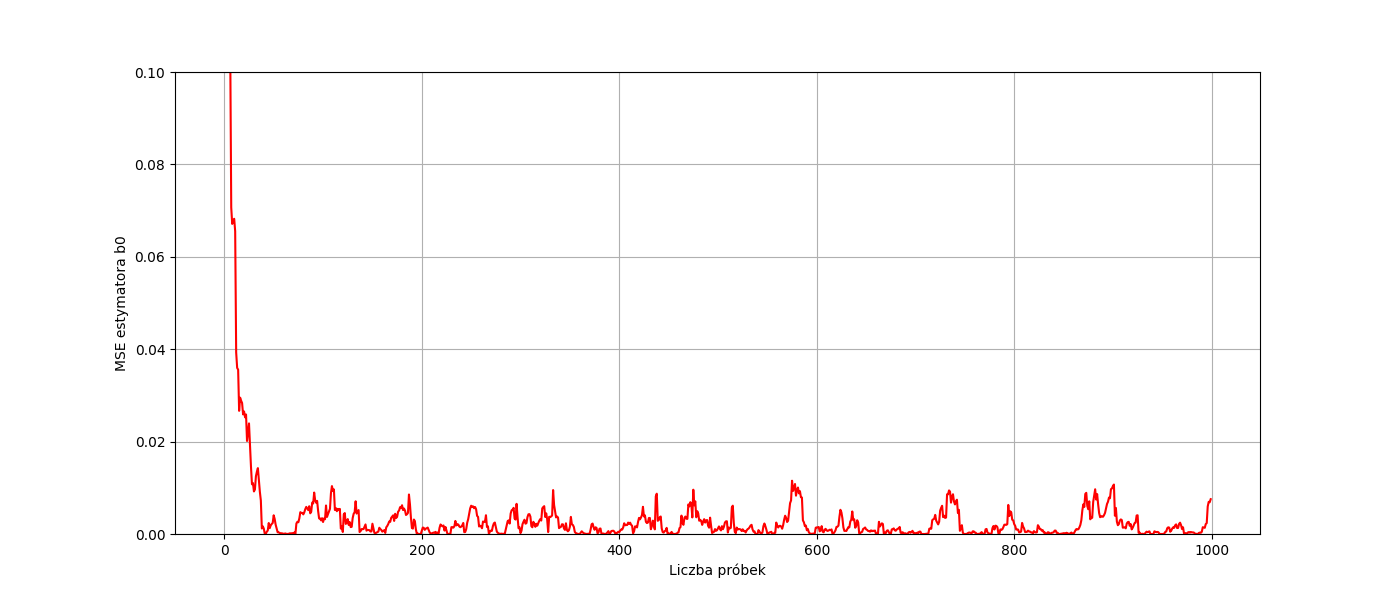
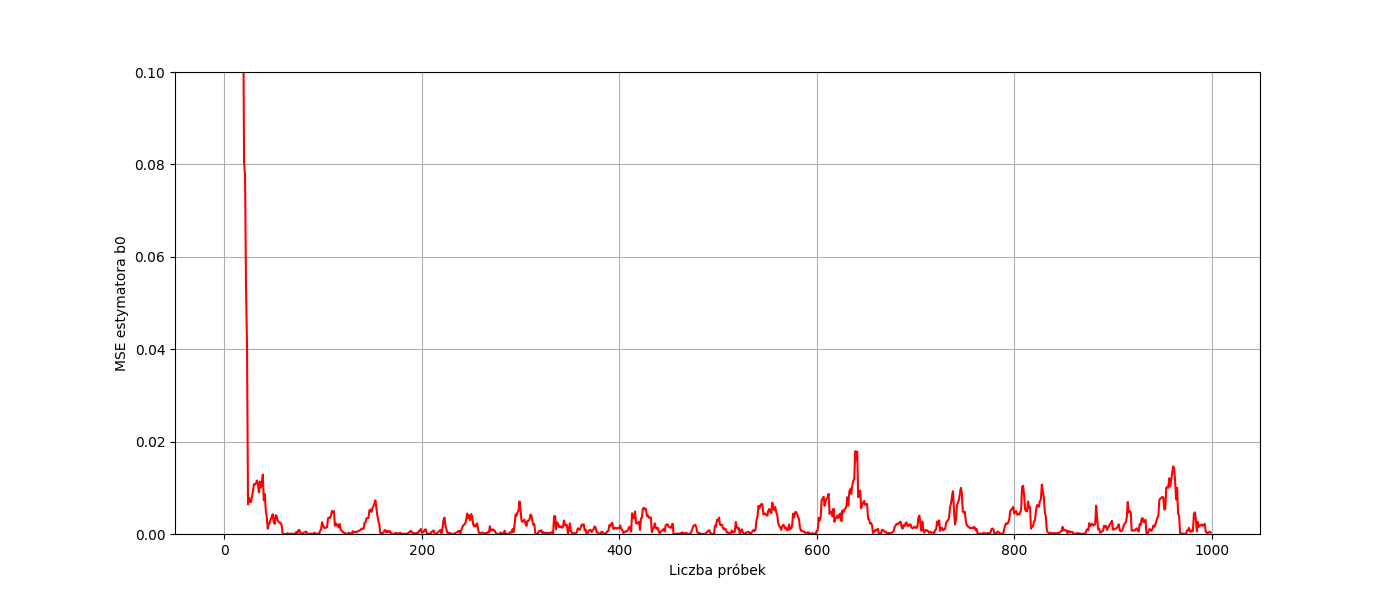
drobne poprawki

Changed region(s): [[0.1536, 0.12, 0.86, 0.9]]

diff --git a/adaptacyjne/projekt2/zad2.py b/adaptacyjne/projekt2/zad2.py
@@ -2,11 +2,164 @@ import matplotlib.pyplot as plt
 import numpy as np
 import random
 import os
-from matplotlib import cm
 
-C = 0.5 
-images_folder = "images_part_2"
+C = 0.2
+images_folder1 = "images_part_1"
+images_folder2 = "images_part_2"
 img_mse = "images_mse"
+image_folder3 = "zadanie_dodatkowe"
+
+
+def zad_dodatkowe_na_sterowanie(N, b_true, v_wanted, Lambda=1):
+    P_k = np.array([[100, 0, 0],
+                [0, 100, 0],
+                [0, 0, 100]])
+    b_estimated = np.zeros((3,N))
+    V_estimated = np.zeros(N)
+    y_estimated = np.zeros(N)
+    V_true = np.zeros(N) # prawdziwe wyjście z obiektu bez zakłócenia
+    y_true = np.zeros(N) # prawdziwe wyjście z zakłóceniem
+    noise1 = [C *(random.random() + random.random() - 1) for _ in range(N)]
+    noise2 = [C *(random.random() + random.random() - 1) for _ in range(N)]
+
+    # odtąd będzie rozpierducha=========================================================
+        # Tworzenie danych przed pętlą 
+    # Dla [0]
+    u_k = np.zeros(N)
+    u_k[0] = (v_wanted[0])
+    Phi = np.array([[u_k[0]],
+                    [0],
+                    [0]])
+    V_true[0] = b_true[0,0]*u_k[0]
+    y_true[0] = V_true[0] + noise1[0]
+    P_k = 1/Lambda * (P_k - (np.dot(np.dot(np.dot(P_k,Phi),Phi.T),P_k))/ (Lambda + np.dot(np.dot(Phi.T, P_k),Phi)))
+
+    B_estimated = [ [0],
+                    [0],
+                    [0]]
+    b_estimated[:,0] = (B_estimated + (y_true[0] - np.dot(Phi.T, B_estimated)) * np.dot(P_k,Phi)).reshape((3,)) 
+    # Dla [1]
+    u_k[1] = (v_wanted[1])/b_estimated[0, 0]
+    Phi = np.array([[u_k[1]],
+                    [u_k[0]],
+                    [0]])
+    V_true[1] = b_true[0,0]*u_k[1] + b_true[1,0]*u_k[0] 
+    y_true[1] =  V_true[1] + noise1[1]
+    P_k = 1/Lambda * (P_k - (np.dot(np.dot(np.dot(P_k,Phi),Phi.T),P_k))/ (Lambda + np.dot(np.dot(Phi.T, P_k),Phi)))
+   
+    B_estimated = [[b_estimated[0, 0]],
+                    [b_estimated[1, 0]],
+                    [b_estimated[2, 0]]]
+    b_estimated[:,1] = (B_estimated + (y_true[1] - np.dot(Phi.T, B_estimated)) * np.dot(P_k,Phi)).reshape((3,)) 
+    for k in range(2, N):
+        u_k[k] = (v_wanted[k] -  (b_estimated[1, k-1]* u_k[k-1] + b_estimated[2, k-1]*u_k[k-2]))/b_estimated[0, k-1]
+        Phi = np.array([[u_k[k]],
+                        [u_k[k-1]],
+                        [u_k[k-2]]])
+        # Wyliczamy nowe wyjście na podstawie oczekiwanego wejścia?? z b_true
+        V_true[k] =  np.dot(Phi.T, b_true[:,k]) # zmiannaaa na dot
+        y_true[k] = V_true[k] + noise1[k]
+        # Calculate P_k - macierz kowariancji P_k to P(k-1) a new_P_k to P(k)
+        P_k = 1/Lambda * (P_k - (np.dot(np.dot(np.dot(P_k,Phi),Phi.T),P_k))/ (Lambda + np.dot(np.dot(Phi.T, P_k),Phi)))
+        
+        # Calculate b_estimated 
+        B_estimated = [[b_estimated[0, k-1]],
+                       [b_estimated[1, k-1]],
+                       [b_estimated[2, k-1]]]
+        b_estimated[:,k] = (B_estimated + (y_true[k] - np.dot(Phi.T, B_estimated)) * np.dot(P_k,Phi)).reshape((3,)) 
+            
+        V_estimated[k] =  np.dot(Phi.T, b_estimated[:,k]) # tu też dot
+        y_estimated[k] = V_estimated[k] + noise2[k]
+    print(f"==================================B = {b_estimated[:,49]}================================")    
+
+# ----------------------------------------------------------------------------------------------
+#     # u_k = np.random.uniform(0, 3, N)
+#     u_k = np.zeros(N)
+#     u_k[0] = np.random.uniform(0, 2)
+#     u_k[1] = np.random.uniform(0, 2)
+
+#     Phi = np.array([[u_k[0]],
+#                     [0],
+#                     [0]])
+    
+
+#     previous_b_est = [[0],
+#                         [0],
+#                         [0]]
+# # tu trzeba to wszystko wyliczyccc :((((
+
+#     for k in range(2,N):
+#         # tu wyliczamy u_k za każdym razem co chcemy
+#         if k > 1:
+#             u_k[k] = (1/b_estimated[0,k])*(v_wanted[k] - b_estimated[1,k] * u_k[k-1] - b_estimated[2,k] * u_k[k-2])
+#         # elif k == 1:
+#         #     u_k[k] = (1/b_estimated[0,k] ) *(v_wanted - b_estimated[1,k] * u_k[k-1])
+
+#         V_true[k] = np.dot(Phi.T, b_true[:,k]) # tez siewrze phi ma byc
+#         y_true[k] = V_true[k] + noise[k]
+
+#         P_k = 1/Lambda * (P_k - (np.dot(np.dot(np.dot(P_k,Phi),Phi.T),P_k))/ (Lambda + np.dot(np.dot(Phi.T, P_k),Phi)))
+
+#         if k > 0:
+#             previous_b_est = [[b_estimated[0, k-1]],
+#                                 [b_estimated[1, k-1]],
+#                                 [b_estimated[2, k-1]]]
+#             b_estimated[:,k] = (previous_b_est + (y_true[k] - np.dot(Phi.T, previous_b_est)) * np.dot(P_k,Phi)).reshape((3,)) 
+            
+#         V_estimated[k] = np.dot(Phi.T, b_estimated[:,k]) # swierzych u_k tu trzeba uzywac
+#         y_estimated[k] = V_estimated[k] + noise[k]
+#         if k < N - 1:
+#                 Phi[2,0] = Phi[1,0]
+#                 Phi[1,0] = Phi[0,0]
+#                 Phi[0,0] = u_k[k+1] #tu jest bladddd
+#------------------------------------------------------------------------------------------                    
+    return V_estimated, b_estimated, y_true, y_estimated
+
+# chcę wykres v_k_wanted od v_k estimated
+def wykresy_wanted(t, b_true, b_estimated, V_wanted, V_estimated, Y_true, Y_estimated):
+    fig_est = plt.figure(figsize=(14, 6))
+    ax_est = fig_est.add_subplot(111)
+    ax_est.plot(t, b_estimated[0], c='r', label="b0")  
+    ax_est.plot(t, b_true[0], c='black') 
+    ax_est.plot(t, b_estimated[1], c='b', label="b1")
+    ax_est.plot(t, b_true[1], c='black') 
+    ax_est.plot(t, b_estimated[2], c='g', label="b2") 
+    ax_est.plot(t, b_true[2], c='black') 
+    ax_est.legend(loc='best', bbox_to_anchor=(1.1, 0.55), borderaxespad=0.0)
+    ax_est.set_xlabel('Liczba próbek')
+    ax_est.set_ylabel('Wartości estymotorów')
+    ax_est.grid(True)
+    fig_est.savefig(os.path.join(os.path.dirname(__file__), image_folder3, f"B_estymowane_b_true.png"))
+
+    fig = plt.figure(figsize=(14, 6))
+    ax = fig.add_subplot(111)
+    ax.plot(t, V_wanted, c='r', label="v_k wanted")  
+    ax.scatter(t, V_estimated, c='black', marker="o", s=10, label="v_k estimated") 
+    ax.legend(loc='best') # bbox_to_anchor=(1.0, 0.55), borderaxespad=0.0)
+    ax.set_xlabel('Liczba próbek')
+    ax.set_ylabel('v_k')
+    ax.grid(True)
+    fig.savefig(os.path.join(os.path.dirname(__file__), image_folder3, f"V_estymowane_V_wanted_s.png"))
+
+    fig_p = plt.figure(figsize=(14, 6))
+    ax_p= fig_p.add_subplot(111)
+    ax_p.plot(t, V_wanted, c='r', label="v_k wanted")  
+    ax_p.plot(t, V_estimated, c='black', label="v_k estimated") 
+    ax_p.legend(loc='best') # bbox_to_anchor=(1.0, 0.55), borderaxespad=0.0)
+    ax_p.set_xlabel('Liczba próbek')
+    ax_p.set_ylabel('v_k')
+    ax_p.grid(True)
+    fig_p.savefig(os.path.join(os.path.dirname(__file__), image_folder3, f"V_estymowane_V_wanted_p.png"))
+
+    fig_y = plt.figure(figsize=(14, 6))
+    ax_y = fig_y.add_subplot(111)
+    ax_y.plot(t, Y_true, c='r', label="y wanted")  
+    ax_y.scatter(t, Y_estimated, c='black', marker="o", s=10, label="y estimated") 
+    ax_y.legend(loc='best') # bbox_to_anchor=(1.0, 0.55), borderaxespad=0.0)
+    ax_y.set_xlabel('Liczba próbek')
+    ax_y.set_ylabel('y_k')
+    ax_y.grid(True)
+    fig_y.savefig(os.path.join(os.path.dirname(__file__), image_folder3, f"Y_estymowane_Y_wanted.png"))
 
 
 def simulation(N, b_true, Lambda):    
@@ -77,9 +230,8 @@ def MSE(t, b_true, b_estimated, Lambda):
     fig.savefig(os.path.join(os.path.dirname(__file__), img_mse, f"MSE_lambda={Lambda}.png"))
     return mse/(len(t) - 40)
      
-def zad2(t, b_true, Lambda):
+def zad2(t, b_true, Lambda, folder):
     b_estimated = simulation(len(t), b_true, Lambda)
-    
     mse = MSE(t, b_true, b_estimated, Lambda)
 
     fig_est = plt.figure(figsize=(14, 6))
@@ -94,38 +246,44 @@ def zad2(t, b_true, Lambda):
     ax_est.set_xlabel('Liczba próbek')
     ax_est.set_ylabel('Wartości estymotorów')
     ax_est.grid(True)
-    fig_est.savefig(os.path.join(os.path.dirname(__file__), images_folder, f"B_estymowane_lambda={Lambda}.png"))
+    fig_est.savefig(os.path.join(os.path.dirname(__file__), folder, f"B_estymowane_lambda={Lambda}.png"))
     return mse
 
 def main():
-    duration = 1000.0  # Duration of the u_k(seconds)
-    N = int(duration)# Amount of samples
+    duration = 100.0  # Duration of the u_k(seconds)
+    N = int(3*duration)# Amount of samples
     t = np.linspace(0, duration, N, endpoint=False) # <class 'numpy.ndarray'>
 
     Lambda = [0.98, 0.97, 0.96, 0.95, 0.94, 0.93, 0.92, 0.91, 0.9, 0.85, 0.8, 0.7, 0.6]
 
     param0 = [1.0 for _ in range(len(t))]
     param1 = [2.0 for _ in range(len(t))]
-    param2 = [3.0 for _ in range(len(t))]
+    param2 = [1.0 for _ in range(len(t))]
     b_true =  np.array([param0, param1, param2])
+    # tuu jak wywołam to będzie jak dla zad 1
+    zad2(t, b_true, 1, images_folder1)
 # =================================================================================
     amplituda = 0.1
     period = 200
-
     czas = np.linspace(0, duration, N, endpoint=False)
     fala_trojkatna = ((4 * amplituda) / period) * np.abs(((czas - (period * 0.25))%period) - (period * 0.5)) - amplituda + 1
-
+ #=================================================================================   
+    amplituda = 0.5
+    period = 20
+    fala_trojkatna2 = ((4 * amplituda) / period) * np.abs(((czas - (period * 0.25))%period) - (period * 0.5)) - amplituda + 1
+    v_estimated, b_estimated, Y_true, Y_estimated = zad_dodatkowe_na_sterowanie(len(t), b_true, fala_trojkatna2)
+    wykresy_wanted(t, b_true, b_estimated, fala_trojkatna2, v_estimated,  Y_true, Y_estimated)
+#=================================================================================
     b_true[0] = fala_trojkatna
 # ================================================================================
-    # zad2(t, b_true, 1)
-    mse = np.zeros(len(Lambda))
-    mse_min = 1
-    for i in range(len(Lambda)):
-        mse[i] = zad2(t, b_true, Lambda[i])
-        if mse[i] < mse_min:
-            mse_min = mse[i]
-            llambda = Lambda[i]
-    print(f"Mse min = {mse_min} dla lambdy = {llambda}")
+    # mse = np.zeros(len(Lambda))
+    # mse_min = 1
+    # for i in range(len(Lambda)):
+    #     mse[i] = zad2(t, b_true, Lambda[i],images_folder2)
+    #     if mse[i] < mse_min:
+    #         mse_min = mse[i]
+    #         llambda = Lambda[i]
+    # print(f"Mse min = {mse_min} dla lambdy = {llambda}")
     
 if __name__ == "__main__":
     main()

diff --git a/Embedded/lab5/lab5.py b/Embedded/lab5/lab5.py
@@ -9,9 +9,9 @@ LED2 = Pin(5,Pin.OUT)
 # SWITCH = Pin('Y13',Pin.IN)
 def INFO():
     print("\t----- PRZEKAZNIK CZASOWY PCU-520 -----")
-    print("\t ---- SPOSOB DZIALANIA AUTO ----")
     print("Styki pozostaja w pozycji 1-5, 2-8 (OFF) do czasu zalaczenia. Po podaniu napiecia zasilajacego przelaczone zostaja w pozycja 1-6, 2-7(ON).")
-    print("A - OPOZNIONE WYLACZENIE \nDo czasu zalaczenia przekaznika styki pozostaja w pozycji 1-5, 2-8.\nPo podaniu napiecia zasilajacego styki zostaja przelaczone w pozycje 1-6, 2-7 na czas t1. \nPo odmierzeniu czasu t1 styki powracaja do pozycji 1-5, 2-8 na czas t2. \nPo czasie t2 styki przekaznika powracaja do pozycji 1-5, 2-8 na czas t2. Po czasie t2 styki przekaznika powracaja do pozycji 1-6, 2-7. \nPonowna realizacja trybu pracy przekaznika mozliwa jest po odlaczeniu napiecia zasilajacego i ponownym jego zalaczeniu.")
+    print("\t ---- SPOSOB DZIALANIA TRYBU AUTO ----")
+    print("A - OPOZNIONE WYLACZENIE \nDo czasu zalaczenia przekaznika styki pozostaja w pozycji 1-5, 2-8.\nPo podaniu napiecia zasilajacego styki zostaja przelaczone w pozycje 1-6, 2-7 na czas t1. \nPo odmierzeniu czasu t1 styki powracaja do pozycji 1-5, 2-8 na czas t2. \nPo czasie t2 styki przekaznika powracaja do pozycji 1-6, 2-7. \nPonowna realizacja trybu pracy przekaznika mozliwa jest po odlaczeniu napiecia zasilajacego i ponownym jego zalaczeniu.")
     print("B - OPOZNIONE ZALACZENIE \nPo podaniu napiecia zasilajacego styki pozostaja w pozycji 1-5, 2-8 przez czas t1. \nPo odmierzeniu czasu t1 nastepuje przelaczenie stykow w pozycje 1-6, 2-7 na czas t2. \nPo czasie t2 styki przekaznika powracaja do pozycji 1-5, 2-8. \nPonowna realizacja trybu pracy przekaznika mozliwa jest po odlaczeniu napiecia zasilajacego i ponownym jego zalaczeniu.")
     print("C - OPOZNIONE WYLACZENIE - CYKLICZNIE \nTryb pracy opoznionego wylaczania realizowany cyklicznie w ustawionych odstepach czasu pracy i przerwy.")
     print("D - OPOZNIONE ZALACZENIE - CYKLICZNIE \nTryb pracy opoznionego zalaczania realizowany cyklicznie w ustawionych odstepach czasu pracy i przerwy.") 
@@ -22,11 +22,11 @@ def MENU():
     except ValueError:
         print("ValueError - wprowadzona wartosc nie jest liczba naturalna, sprobuj ponownie.")
         return
-    if ( choice == 1 or choice == 2 or choice == 3):
+    if (choice == 1 or choice == 2 or choice == 3):
         return choice
     else:
         print("Blednie dane, sprobuj ponownie")
-        return MENU() # Mozna tak?
+        return MENU() # Mozna tak? najwyraźniej --N
 def AUTO():
     try:
         print("FUNCJE: \nA. Opoznione wylaczanie \nB. Opoznione zalaczanie \nC. Opoznione wylaczenie-cykliczne \nD. Opoznione zalaczenie-cykliczne")
@@ -38,7 +38,7 @@ def AUTO():
         t1 = float(input("Podaj t1 [3s - 12s]: ")) 
         t2 = float(input("Podaj t2 [3s - 12s]: "))
     except ValueError:
-        print("ValueError - wprowadzona wartosc nie niepoprawna, sprobuj ponownie.")
+        print("ValueError - wprowadzona wartosc jest niepoprawna, sprobuj ponownie.")
         return
     if (t1 > 2 or t2 > 2):
         if choice == 'A' or choice == 'a':
@@ -51,6 +51,7 @@ def AUTO():
             D(t1, t2)
     else:
         print("Za male wartosci")
+        return # dodane
 def LED_PULS():
     for i in range(10):
         # zapal/zgas diode1
@@ -74,7 +75,7 @@ def A(t1, t2):
     LED_PULS
     # wyłącz Led
     LED1.value(0)
-    return
+    return # tu w sumie return if przycisk pressed i we wszystkich AUTO
 def B(t1, t2):
     print("Praca rozpocznie się po wcisnieciu przycisku")
     while SWITCH.value() == 0:
@@ -120,8 +121,8 @@ def MANUAL_BI():
     while(True):
         while SWITCH.value() == 0:
             pass  # Wait for the button press
-        LED1.value(not LED1.value())
-    return
+        LED1.value(not LED1.value()) # czy to napewno zdziała??
+    #return usunełam bo i tak nie podtzebny
 def MANUAL_MONO():
     while(True):
         while SWITCH.value() == 0:
@@ -129,7 +130,7 @@ def MANUAL_MONO():
         LED1.value(1)
         time.sleep(1)
         LED1.value(0)
-    return
+    # ti tak samo jak w _BI
 def driver():
     choice = MENU()
     if choice == 1:
@@ -138,8 +139,8 @@ def driver():
         MANUAL_BI()
     elif choice == 3:
         MANUAL_MONO()
-    else:
-        print("Nieprawidłowy wybór.")
+    # else: # to się chyba nigdy nie wykona??
+    #     print("Nieprawidłowy wybór.")
 def main():
     INFO()
     driver()

diff --git a/adaptacyjne/projekt2/na_ratunet.py b/adaptacyjne/projekt2/na_ratunet.py
@@ -1,0 +1,48 @@
+    # Tworzenie danych przed pętlą 
+    # Dla [0]
+    u_k = np.zeros(N)
+    u_k[0] = (v_wanted[0])
+    Phi = np.array([[u_k[0]],
+                    [0],
+                    [0]])
+    V_true[0] = b_true[0]*u_k[0]
+    y_true[0] = V_true[0]  + noise[0]
+    P_k = 1/Lambda * (P_k - (np.dot(np.dot(np.dot(P_k,Phi),Phi.T),P_k))/ (Lambda + np.dot(np.dot(Phi.T, P_k),Phi)))
+
+    B_estimated = [ [0],
+                    [0],
+                    [0]]
+    b_estimated[:,0] = (B_estimated + (y_true[0] - np.dot(Phi.T, B_estimated)) * np.dot(P_k,Phi)).reshape((3,)) 
+    # DLa [1]
+    u_k[1] = (v_wanted[1])/b_estimated[0, 0]
+    Phi = np.array([[u_k[1]],
+                    [u_k[0]],
+                    [0]])
+    V_true[1] = b_true[0]*u_k[1] + b_true[1]*u_k[0] 
+    y_true[1] =  V_true[1] + noise[1]
+    P_k = 1/Lambda * (P_k - (np.dot(np.dot(np.dot(P_k,Phi),Phi.T),P_k))/ (Lambda + np.dot(np.dot(Phi.T, P_k),Phi)))
+   
+    B_estimated = [ [b_estimated[0, 0]],
+                    [b_estimated[1, 0]],
+                    [b_estimated[2, 0]]]
+    b_estimated[:,1] = (B_estimated + (y_true[1] - np.dot(Phi.T, B_estimated)) * np.dot(P_k,Phi)).reshape((3,)) 
+    for k in range(2, N):
+        u_k[k] = ((np.sin(2*np.pi/3 * k) + 1.5) -  (b_estimated[1, k-1]* u_k[k-1] + b_estimated[2, k-1]*u_k[k-2]))/b_estimated[0, k-1]
+        Phi = np.array([[u_k[k]],
+                        [u_k[k-1]],
+                        [u_k[k-2]]])
+        # Wyliczamy nowe wyjście na podstawie oczekiwanego wejścia?? z b_true
+        V_true[k] =  (b_true[0]*u_k[k] + b_true[1]*u_k[k-1] + b_true[2]*u_k[k-2])
+        y_true[k] = V_true[k] + noise[k]
+        # Calculate P_k - macierz kowariancji P_k to P(k-1) a new_P_k to P(k)
+        P_k = 1/Lambda * (P_k - (np.dot(np.dot(np.dot(P_k,Phi),Phi.T),P_k))/ (Lambda + np.dot(np.dot(Phi.T, P_k),Phi)))
+        
+        # Calculate b_estimated 
+        B_estimated = [[b_estimated[0, k-1]],
+                       [b_estimated[1, k-1]],
+                       [b_estimated[2, k-1]]]
+        b_estimated[:,k] = (B_estimated + (y_true[k] - np.dot(Phi.T, B_estimated)) * np.dot(P_k,Phi)).reshape((3,)) 
+            
+        V_estimated[k] =  (b_estimated[0, k]*u_k[k] + b_estimated[1, k]*u_k[k-1] + b_estimated[2, k]*u_k[k-2])
+        y_estimated[k] = V_estimated[k] + noise[k]
+    print(f"B = {b_estimated[:,49]}")    
